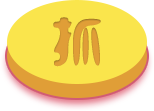
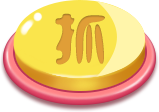
替换资源 和 添加倒计时

diff --git a/bin-debug/GameLayer.js b/bin-debug/GameLayer.js
@@ -48,6 +48,9 @@ var GameLayer = (function (_super) {
         _this.handSpeedX = 0;
         _this.handSpeedY = 0;
         _this.nameText = null;
+        _this.timerOut = null;
+        _this.timeOut = null;
+        _this.maxTime = 15;
         _this.pointX = 0;
         _this.pointY = 0;
         // 计时器
@@ -77,6 +80,24 @@ var GameLayer = (function (_super) {
         // 第一次刷新幸运值
         this.updateLuckyValue();
         this.showNotice("欢迎来到 就爱抓娃娃 房间～");
+        // 计时器
+        this.timerOut = new egret.Timer(1000, 0);
+        this.timerOut.addEventListener(egret.TimerEvent.TIMER, this.Func, this);
+        this.timerOut.addEventListener(egret.TimerEvent.TIMER_COMPLETE, this.ComFunc, this);
+    };
+    GameLayer.prototype.Func = function () {
+        if (this.maxTime >= 0) {
+            this.maxTime -= 1;
+            this.timeOut.text = this.maxTime + "";
+        }
+        else {
+            this.timerOut.stop();
+            this.goBtnDown();
+        }
+    };
+    GameLayer.prototype.ComFunc = function () {
+        this.maxTime = 15;
+        console.log("计时结束");
     };
     GameLayer.prototype.showNotice = function (str) {
         this.noticeLabel.text = str;
@@ -183,12 +204,16 @@ var GameLayer = (function (_super) {
                     this.startGroup.visible = false;
                     this.playGroup.visible = true;
                     // 是否抓中
-                    Utils.sendHttpServer("http://wawa.sz-ayx.com/api/winnig/index/userkey/" + Data.userKey + "/giftkey/" + Data.selectData.id, false, function (e) {
+                    Utils.sendHttpServer("http://wawa.sz-ayx.com/api/usecoin/index/userkey/" + Data.userKey + "/useCoin/" + Data.selectData.cost + "/giftkey/" + Data.selectData.id, false, function (e) {
                         WaitConnect.closeConnect();
                         var request = e.currentTarget;
                         console.log("winnig data : ", request.response);
                         // 得到是否夹中结果
                         Data.cmd_winnig = JSON.parse(request.response);
+                        // 刷新当前币数
+                        this.setGameScore(Data.cmd_winnig["userCoin"]);
+                        // 开始倒计时
+                        this.timerOut.start();
                     }, this);
                 }
                 else {
@@ -207,45 +232,7 @@ var GameLayer = (function (_super) {
                 this.addChild(task);
                 break;
             case this.goBtn:
-                this.checkDirBtnStype(false);
-                var self = this;
-                var newWawa = null;
-                this.hand.playAction(function (type) {
-                    if (type == 0) {
-                        egret.Tween.get(self.hand, { loop: false }).to({ x: 0, y: 0 }, 400).call(function () {
-                            self.checkDirBtnStype(true);
-                            self.startGroup.visible = true;
-                            self.playGroup.visible = false;
-                            if (Data.cmd_winnig["state"] == 1 && newWawa != null) {
-                                console.log("提示抓到娃娃了");
-                                egret.Tween.get(newWawa, { loop: false }).to({ y: newWawa.y + 225, alpha: 0 }, 200).call(function () {
-                                    newWawa.parent.removeChild(newWawa);
-                                    newWawa = null;
-                                });
-                            }
-                            // 每抓一次结束更新一次幸运值
-                            self.updateLuckyValue();
-                        });
-                    }
-                    else if (type == 2) {
-                        var wawaNode = self.wawaArray[Data.onWawaIndex];
-                        egret.Tween.get(wawaNode, { loop: false }).to({ y: wawaNode.y - 20 }, 100).to({ y: wawaNode.y }, 100);
-                    }
-                    else if (type == 1) {
-                        self.wawaArray[Data.onWawaIndex].visible = false;
-                        if (newWawa == null) {
-                            newWawa = new eui.Image(RES.getRes(Data.selectData.id + "_png"));
-                            newWawa.y = self.hand.shadow.y;
-                            newWawa.x = -20;
-                            newWawa.scaleX = 0.4;
-                            newWawa.scaleY = 0.4;
-                            newWawa.anchorOffsetX = newWawa.width / 2;
-                            newWawa.anchorOffsetY = 280;
-                            self.hand.addChild(newWawa);
-                            egret.Tween.get(newWawa, { loop: false }).to({ y: newWawa.y - 225 }, 800);
-                        }
-                    }
-                });
+                this.goBtnDown();
                 break;
             case this.changeBtn:
                 AppCanvas.setGameState(2);
@@ -259,6 +246,47 @@ var GameLayer = (function (_super) {
                 this.addChild(wawa);
                 break;
         }
+    };
+    GameLayer.prototype.goBtnDown = function () {
+        this.checkDirBtnStype(false);
+        var self = this;
+        var newWawa = null;
+        this.hand.playAction(function (type) {
+            if (type == 0) {
+                egret.Tween.get(self.hand, { loop: false }).to({ x: 0, y: 0 }, 400).call(function () {
+                    self.checkDirBtnStype(true);
+                    self.startGroup.visible = true;
+                    self.playGroup.visible = false;
+                    if (Data.cmd_winnig["usestate"] == 1 && newWawa != null) {
+                        console.log("提示抓到娃娃了");
+                        egret.Tween.get(newWawa, { loop: false }).to({ y: newWawa.y + 225, alpha: 0 }, 200).call(function () {
+                            newWawa.parent.removeChild(newWawa);
+                            newWawa = null;
+                        });
+                    }
+                    // 每抓一次结束更新一次幸运值
+                    self.updateLuckyValue();
+                });
+            }
+            else if (type == 2) {
+                var wawaNode = self.wawaArray[Data.onWawaIndex];
+                egret.Tween.get(wawaNode, { loop: false }).to({ y: wawaNode.y - 20 }, 100).to({ y: wawaNode.y }, 100);
+            }
+            else if (type == 1) {
+                self.wawaArray[Data.onWawaIndex].visible = false;
+                if (newWawa == null) {
+                    newWawa = new eui.Image(RES.getRes(Data.selectData.id + "_png"));
+                    newWawa.y = self.hand.shadow.y;
+                    newWawa.x = -20;
+                    newWawa.scaleX = 0.4;
+                    newWawa.scaleY = 0.4;
+                    newWawa.anchorOffsetX = newWawa.width / 2;
+                    newWawa.anchorOffsetY = 280;
+                    self.hand.addChild(newWawa);
+                    egret.Tween.get(newWawa, { loop: false }).to({ y: newWawa.y - 225 }, 800);
+                }
+            }
+        });
     };
     GameLayer.prototype.checkDirBtnStype = function (is) {
         this.upBtn.touchEnabled = is;

diff --git a/src/GameLayer.ts b/src/GameLayer.ts
@@ -40,6 +40,9 @@ class GameLayer extends eui.Component implements  eui.UIComponent {
 	private handSpeedY:number = 0;
 
 	private nameText:eui.Label = null;
+	private timerOut:egret.Timer = null;
+	private timeOut:eui.BitmapLabel = null;
+	private maxTime:number = 15;
 	public constructor() {
 		super();
 		// 计时器
@@ -72,7 +75,26 @@ class GameLayer extends eui.Component implements  eui.UIComponent {
 		this.updateLuckyValue();
 
 		this.showNotice("欢迎来到 就爱抓娃娃 房间～");
+
+		// 计时器
+		this.timerOut = new egret.Timer(1000,0);
+        this.timerOut.addEventListener(egret.TimerEvent.TIMER,this.Func,this);
+        this.timerOut.addEventListener(egret.TimerEvent.TIMER_COMPLETE,this.ComFunc,this);
 	}
+
+	private Func(){
+		if (this.maxTime >= 0) {
+			this.maxTime -= 1;
+			this.timeOut.text = this.maxTime+"";
+		}else {
+			this.timerOut.stop();
+			this.goBtnDown();
+		}
+	}
+    private ComFunc() {
+		this.maxTime = 15;
+        console.log("计时结束");
+    }
 
 	private showNotice(str:string) {
 		this.noticeLabel.text = str;
@@ -183,12 +205,16 @@ class GameLayer extends eui.Component implements  eui.UIComponent {
 					this.startGroup.visible = false;
 					this.playGroup.visible = true;
 					// 是否抓中
-					Utils.sendHttpServer("http://wawa.sz-ayx.com/api/winnig/index/userkey/" + Data.userKey + "/giftkey/" + Data.selectData.id, false, function(e:egret.Event) {
+					Utils.sendHttpServer("http://wawa.sz-ayx.com/api/usecoin/index/userkey/" + Data.userKey + "/useCoin/" + Data.selectData.cost + "/giftkey/" + Data.selectData.id, false, function(e:egret.Event) {
         				WaitConnect.closeConnect();
 						var request = <egret.HttpRequest>e.currentTarget;
 						console.log("winnig data : ",request.response);
 						// 得到是否夹中结果
 						Data.cmd_winnig = JSON.parse(request.response);
+						// 刷新当前币数
+						this.setGameScore(Data.cmd_winnig["userCoin"]);
+						// 开始倒计时
+						this.timerOut.start();
 					}, this);
 				}else {
 					this.addChild(new Recharge());
@@ -206,43 +232,7 @@ class GameLayer extends eui.Component implements  eui.UIComponent {
 				this.addChild(task);
 			break;
 			case this.goBtn:
-				this.checkDirBtnStype(false);
-				var self = this;
-				var newWawa = null;
-				this.hand.playAction(function(type) { // 0: 在空白区域抓 1:抓到娃娃 2:抓到娃娃失败 
-					if (type == 0) {
-						egret.Tween.get(self.hand,{loop:false}).to({x:0,y:0},400).call(function(){
-							self.checkDirBtnStype(true);
-							self.startGroup.visible = true;
-							self.playGroup.visible = false;
-							if (Data.cmd_winnig["state"] == 1 && newWawa != null) {
-								console.log("提示抓到娃娃了");
-								egret.Tween.get(newWawa,{loop:false}).to({y:newWawa.y+225, alpha:0},200).call(function(){
-									newWawa.parent.removeChild(newWawa);
-									newWawa = null;
-								});
-							}
-							// 每抓一次结束更新一次幸运值
-							self.updateLuckyValue();
-						});
-					}else if (type == 2) {
-						var wawaNode = self.wawaArray[Data.onWawaIndex];
-						egret.Tween.get(wawaNode,{loop:false}).to({y:wawaNode.y-20},100).to({y:wawaNode.y},100);
-					}else if (type == 1) {
-						self.wawaArray[Data.onWawaIndex].visible = false;
-						if (newWawa == null) {
-							newWawa = new eui.Image(RES.getRes(Data.selectData.id+"_png"));
-							newWawa.y = self.hand.shadow.y;
-							newWawa.x = -20;
-							newWawa.scaleX = 0.4;
-							newWawa.scaleY = 0.4;
-							newWawa.anchorOffsetX = newWawa.width/2;
-							newWawa.anchorOffsetY = 280;
-							self.hand.addChild(newWawa);
-							egret.Tween.get(newWawa,{loop:false}).to({y:newWawa.y-225},800);
-						}
-					}
-				});
+				this.goBtnDown();
 			break;
 			case this.changeBtn:
                 AppCanvas.setGameState(2);
@@ -257,6 +247,46 @@ class GameLayer extends eui.Component implements  eui.UIComponent {
 			break;
 		}
     }
+
+	private goBtnDown() {
+		this.checkDirBtnStype(false);
+		var self = this;
+		var newWawa = null;
+		this.hand.playAction(function(type) { // 0: 在空白区域抓 1:抓到娃娃 2:抓到娃娃失败 
+			if (type == 0) {
+				egret.Tween.get(self.hand,{loop:false}).to({x:0,y:0},400).call(function(){
+					self.checkDirBtnStype(true);
+					self.startGroup.visible = true;
+					self.playGroup.visible = false;
+					if (Data.cmd_winnig["usestate"] == 1 && newWawa != null) {
+						console.log("提示抓到娃娃了");
+						egret.Tween.get(newWawa,{loop:false}).to({y:newWawa.y+225, alpha:0},200).call(function(){
+							newWawa.parent.removeChild(newWawa);
+							newWawa = null;
+						});
+					}
+					// 每抓一次结束更新一次幸运值
+					self.updateLuckyValue();
+				});
+			}else if (type == 2) {
+				var wawaNode = self.wawaArray[Data.onWawaIndex];
+				egret.Tween.get(wawaNode,{loop:false}).to({y:wawaNode.y-20},100).to({y:wawaNode.y},100);
+			}else if (type == 1) {
+				self.wawaArray[Data.onWawaIndex].visible = false;
+				if (newWawa == null) {
+					newWawa = new eui.Image(RES.getRes(Data.selectData.id+"_png"));
+					newWawa.y = self.hand.shadow.y;
+					newWawa.x = -20;
+					newWawa.scaleX = 0.4;
+					newWawa.scaleY = 0.4;
+					newWawa.anchorOffsetX = newWawa.width/2;
+					newWawa.anchorOffsetY = 280;
+					self.hand.addChild(newWawa);
+					egret.Tween.get(newWawa,{loop:false}).to({y:newWawa.y-225},800);
+				}
+			}
+		});
+	}
 
 	private checkDirBtnStype(is:boolean) {
 		this.upBtn.touchEnabled = is;

diff --git a/src/util/Utils.ts b/src/util/Utils.ts
@@ -188,6 +188,7 @@ class Utils {
 
 	public static sendHttpServer( param:string, isShow:boolean, fun:Function, thisObject:any) {
 		var url = param;
+        console.log(url);
         if (isShow) WaitConnect.openConnect();
 		var request = new egret.HttpRequest();
 		request.responseType = egret.HttpResponseType.TEXT;

diff --git a/bin-debug/util/Utils.js b/bin-debug/util/Utils.js
@@ -168,6 +168,7 @@ var Utils = (function () {
     // }
     Utils.sendHttpServer = function (param, isShow, fun, thisObject) {
         var url = param;
+        console.log(url);
         if (isShow)
             WaitConnect.openConnect();
         var request = new egret.HttpRequest();
